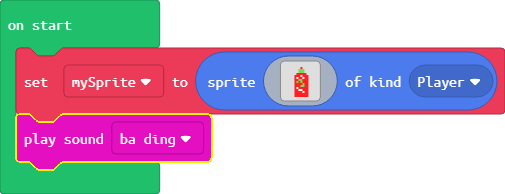
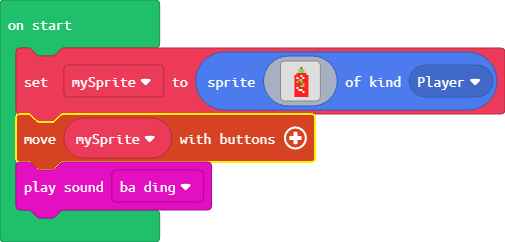
Update main.ts, main.blocks

diff --git a/main.ts b/main.ts
@@ -16,4 +16,5 @@ let mySprite = sprites.create(img`
 . . . . . 2 2 2 2 2 2 2 . . . . 
 . . . . . 2 2 2 2 2 2 2 . . . . 
 `, SpriteKind.Player)
+controller.moveSprite(mySprite)
 music.baDing.play()
